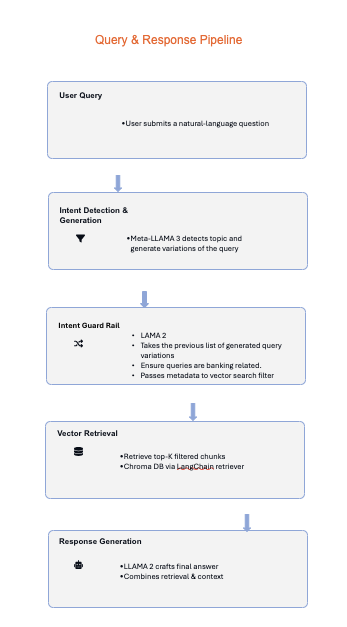
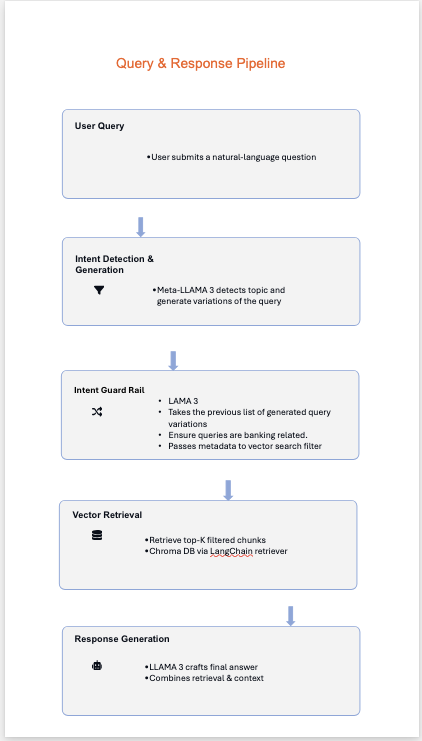
Fix static files path

diff --git a/frontend/index.html b/frontend/index.html
@@ -3,7 +3,7 @@
 
 <head>
   <title>Banking Chatbot</title>
-  <link rel="stylesheet" href="static/css/style.css" />
+  <link rel="stylesheet" href="/static/css/style.css" />
   <!--- <link rel="stylesheet" href="{{ url_for('static', filename='css/style.css') }}"> -->
 
 </head>

diff --git a/backend/router.py b/backend/router.py
@@ -94,21 +94,21 @@ def generate_intent(q:QueryInput):
 
 
 # --- JSON FILES ---
-BASE_DIR = os.path.abspath(os.path.join(os.path.dirname(__file__), "../../frontend/static"))
+BASE_DIR = os.path.abspath(os.path.join(os.path.dirname(__file__), "../frontend/static"))
 
 # --- JSON FILES ---
 @router.get("/download-json")
 def download_json():
-    json_path = os.path.join(BASE_DIR, "js", "products.json")
+    json_path = os.path.join(BASE_DIR, "products.json")
     if not os.path.exists(json_path):
         raise HTTPException(status_code=404, detail="products.json not found")
     return FileResponse(json_path, media_type="application/json", filename="products.json")
 
 @router.get("/view-json")
 def view_json():
-    json_path = os.path.join(BASE_DIR, "js", "products.json")
+    json_path = os.path.join(BASE_DIR, "products.json")
     if not os.path.exists(json_path):
-        raise HTTPException(status_code=404, detail="products.json not found")
+        raise HTTPException(status_code=404, detail="products.json not found. Path" + json_path)
 
     with open(json_path, "r", encoding="utf-8") as f:
         data = json.load(f)

diff --git a/README.md b/README.md
@@ -1,0 +1,153 @@
+# **Banking Chatbot with Retrieval-Augmented Generation (RAG)**
+
+This project is a **Banking Chatbot** designed to assist users in exploring financial products such as mortgages, loans, credit cards, savings, and pensions. The chatbot uses **Retrieval-Augmented Generation (RAG)** to provide accurate, context-aware responses by retrieving information from a curated knowledge base.
+
+---
+
+## **Features**
+- **Instant Answers**: Provides quick and accurate answers to user queries about banking products.
+- **Knowledge Base**: Covers a wide range of financial products, including:
+  - Mortgages: First-Time Buyer, Home Mover, Buy-to-Let
+  - Loans: Personal, Car, Student
+  - Credit Cards: Classic, Platinum, Student
+  - Accounts: Graduate, Basic, Smart Start
+  - Savings: SuperSaver, Save for Kids
+  - Pensions: Retirement, Company, Calculators
+- **Query Examples**:
+  - "How much can I borrow for my first home?"
+  - "What’s the difference between a personal loan and a car loan?"
+  - "Am I eligible for a Smart Start Account for my child?"
+- **Powered By**:
+  - **LangChain + FastAPI** for backend logic.
+  - **Hugging Face Inference API** for embeddings.
+  - **Chroma Vector Store** for vector-based search.
+  - **Meta-Llama-3-8B-Instruct** for response generation.
+
+---
+
+## **How It Works**
+1. **User Query**: The user submits a query through the chatbot interface.
+2. **Embedding Generation**: The query is sent to a Hugging Face Space for embedding generation.
+3. **Vector Search**: The embedding is used to search the Chroma Vector Store for relevant documents.
+4. **Response Generation**: The retrieved documents are used to generate a context-aware response.
+
+---
+
+## **Project Structure**
+```
+.
+├── backend/
+│   ├── main.py                # FastAPI backend
+│   ├── search_chroma.py       # Handles vector search and retrieval
+│   ├── embedding_model.py     # Embedding generation using Hugging Face Space
+│   └── utils/
+│       ├── embeddings_hf.py   # Hugging Face embedding utilities
+│       └── chunking.py        # Document chunking logic
+├── frontend/
+│   ├── index.html             # Chatbot UI
+│   ├── static/
+│       ├── css/
+│       │   └── style.css      # Frontend styling
+│       ├── js/
+│       │   └── app.js         # Frontend logic
+│       └── images/            # Icons and images
+├── data/
+│   └── index/                 # Chroma vector store persistence
+├── requirements.txt           # Python dependencies
+└── README.md                  # Project documentation
+```
+
+---
+
+## **Setup Instructions**
+
+### **1. Clone the Repository**
+```bash
+git clone https://github.com/your-username/banking-chatbot.git
+cd banking-chatbot
+```
+
+### **2. Install Dependencies**
+Ensure you have Python 3.8+ installed. Install the required Python packages:
+```bash
+pip install -r requirements.txt
+```
+
+### **3. Run the Backend**
+Start the FastAPI backend:
+```bash
+uvicorn backend.main:app --reload
+```
+
+### **4. Serve the Frontend**
+Open the 
+
+index.html
+
+ file in your browser or use a local server (e.g., Live Server in VS Code).
+
+---
+
+## **Usage**
+1. Open the chatbot interface in your browser.
+2. Ask questions about banking products (e.g., "What are the fees for a Graduate Current Account?").
+3. View the chatbot's response, which is generated using the RAG pipeline.
+
+---
+
+## **API Endpoints**
+- **Root Endpoint**: Serves the frontend:
+  ```
+  GET /
+  ```
+- **Static Files**: Serves static assets like JavaScript and CSS:
+  ```
+  GET /static/<file>
+  ```
+- **Embedding API**: Uses Hugging Face Space for embedding generation:
+  ```
+  POST /api/embed
+  ```
+
+---
+
+## **Technologies Used**
+- **Backend**:
+  - [FastAPI](https://fastapi.tiangolo.com/): High-performance web framework.
+  - [LangChain](https://langchain.com/): Framework for building LLM-powered applications.
+  - [Chroma](https://www.trychroma.com/): Vector database for semantic search.
+- **Frontend**:
+  - HTML, CSS, JavaScript.
+- **Machine Learning**:
+  - Hugging Face Inference API for embeddings.
+  - Meta-Llama-3-8B-Instruct for response generation.
+
+---
+
+## **Troubleshooting**
+
+### **CORS Issues**
+If you encounter CORS errors when running the app locally:
+1. Ensure the frontend and backend are running on the same origin or add the frontend's URL to the `allow_origins` list in `main.py`.
+
+### **Hugging Face Space Not Found**
+If the Hugging Face Space URL is not reachable:
+1. Verify the Space URL and ensure it is running.
+2. Check the `/embed` endpoint for proper configuration.
+
+---
+
+## **Future Improvements**
+- Add user authentication for personalized responses.
+- Expand the knowledge base to include more financial products.
+- Integrate a feedback mechanism for users to rate responses.
+
+---
+
+## **Contributing**
+Contributions are welcome! Please fork the repository and submit a pull request with your changes.
+
+---
+
+## **License**
+This project is licensed under the MIT License. See the `LICENSE` file for details.
